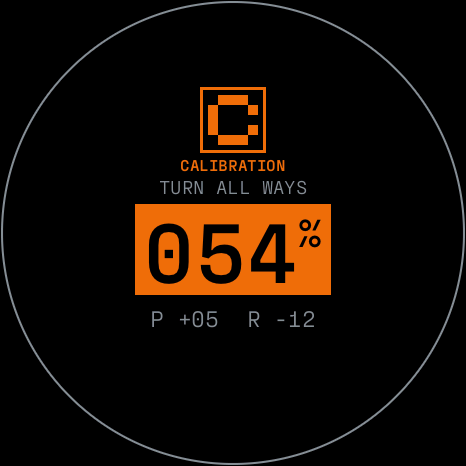
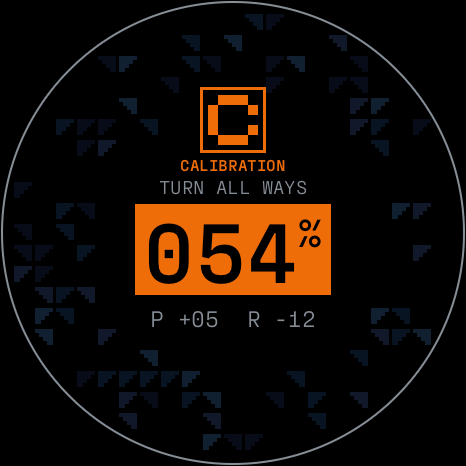
docs: record c1 compass design and draw time

diff --git a/context/SCREEN-DESIGN-BRIEF.md b/context/SCREEN-DESIGN-BRIEF.md
@@ -7,7 +7,7 @@ what data and settings exist. Read it with:
 - [`design/handoffs/IMPLEMENTATION-HANDOFF-CURRENT.md`](design/handoffs/IMPLEMENTATION-HANDOFF-CURRENT.md):
   the design agent's hand-off of 2026-09-26, which redesigns every screen. The owner approved
   all of it ([`design/DECISIONS.md`](design/DECISIONS.md)). The start-up, clock, settings and
-  always-on screens are built; C1 compass remains. The rest of this brief records the build.
+  always-on screens and C1 compass are built. The rest of this brief records the build.
 - [`design/docs/marathon-ui-design-language.md`](design/docs/marathon-ui-design-language.md), the
   design doctrine, and [`design/docs/OCTOWHERE-COLOR-ROLES.md`](design/docs/OCTOWHERE-COLOR-ROLES.md).
   The doctrine was written for an earlier product. Where it disagrees with this brief about this
@@ -105,8 +105,11 @@ the panel. Touch targets are no smaller than about 10 mm.
   face as built" below has where the build interpreted it. A time that a fix or zone change
   replaces types in again by cell reveal: the hours, minutes and seconds over 180 ms, and the
   first token line over 160 ms from 120 ms. A tick never animates the digits.
-- **Compass:** as the clock face spec's compass section and the animation addendum describe, with
-  the 66 px outlined icon. It no longer has cover-to-recalibrate, its `COVER SCREEN TO RECAL`
+- **Compass:** C1 adds a fixed dim blue field after a five-step build within the 440 ms entry.
+  Heading holds low horizontal blocks through turns; calibration and TOP EDGE UP use sparse
+  stepped tiles; interference dims the blocks; NO DATA has none. The dial, five states and
+  state transitions remain as the compass spec and animation addendum describe, with the 66 px
+  outlined icon. It no longer has cover-to-recalibrate, its `COVER SCREEN TO RECAL`
   hint, or the divider above it. The tilt line ends the stack. Calibration restarts from the
   panel's COMPASS cell.
 - **Settings panel:** S1's eight indexed rows on two pages, four rows per page. A horizontal
@@ -497,7 +500,8 @@ target that takes antialiased coverage a row at a time and blends it with what i
 
   A halo costs the ring plus the plain text. Stretched, doubled and rotated text have no outline
   yet.
-- **Solid rectangles:** exact, and the cheapest thing to draw.
+- **Solid rectangles:** exact, and the cheapest thing to draw. C1 builds its fixed blue field
+  from these; it does not store a texture image.
 - **The 5 × 5 icon system:** outlined, at any module size. The frame is a quarter of the module
   (at least 2 px), black inside, and the modules are in the state colour. In use: 96 px (clock
   and second-level screens), 66 px (compass and panel cells). The glyphs are in the specs'
@@ -517,11 +521,10 @@ target that takes antialiased coverage a row at a time and blends it with what i
 Constraints:
 
 - **Draw order is the layering.** A later draw covers an earlier one.
-- **An antialiased edge must know its background to look right.** Every screen draws on a known
-  flat colour: text on `BLACK`, knockout text on its band or slab colour. Anything over an image,
-  a pattern or another shape's edge is possible but slower, and a deliberate choice.
+- **An antialiased edge must know its background to look right.** Text uses `BLACK` or its
+  band or slab colour. The compass dial blends over C1's field instead of assuming black.
 - **Symbols are built in code** from rectangles and polygons on integer geometry, never bitmaps.
-- **No images, photographs or textures.**
+- **No bitmap images or photographs.**
 
 ## What drawing costs
 
@@ -534,19 +537,23 @@ that changed redraw. Measured on the device, per frame:
 | Either face at rest | nothing drawn |
 | Clock, a second ticks | about 1.9 ms |
 | Clock, a token line typing in | about 7 ms, at most 18 ms |
-| Compass, tilt changes by a degree | 1.7 ms |
-| Compass, a step of the dial sweep | 7–12 ms |
-| Compass, heading changes by a degree | about 13 ms |
+| Compass, tilt changes by a degree, before C1 | 1.7 ms |
+| Compass, a step of the dial sweep, before C1 | 7–12 ms |
+| Compass, heading changes by a degree, before C1 | about 13 ms |
 | Clock drawn in full | about 20 ms, at most 25 ms |
-| Compass drawn in full | 13–23 ms |
+| Compass drawn in full, before C1 | 13–23 ms |
+| C1 compass heading, full | 22.857 ms median |
+| C1 compass heading, one-degree redraw | 11.151 ms median |
 | Start-up identity, a frame of its opening grid | about 15 ms, at most 19 ms |
 | Start-up identity, a frame while its title and marks build | about 23 ms, at most 31 ms |
 | Start-up identity, once settled | nothing but the scatter's turns and the digits |
 | Start-up card, a frame | about 12 ms, at most 22 ms |
 | Start-up fault screen, a frame | about 25 ms, at most 28 ms |
 
-Of a full clock draw, the clear is about 7 ms, the scatter 3.3 ms and the band 3.4 ms. The new clock face's minute change, its entry's other steps and the charging crawl were not measured on their own; the board had no battery reading. The screens of the settings round are not
-measured.
+Of a full clock draw, the clear is about 7 ms, the scatter 3.3 ms and the band 3.4 ms. The new clock face's minute change, its entry's other steps and the charging crawl were not measured on their own; the board had no battery reading. Settings draws are recorded in
+[`docs/logs/display/settings-draw-2026-09-26.md`](../docs/logs/display/settings-draw-2026-09-26.md).
+C1's settled states, entry points and a swipe frame were measured in
+[`docs/logs/display/compass-c1-draw-2026-09-26.md`](../docs/logs/display/compass-c1-draw-2026-09-26.md).
 
 - A full redraw happens during a page swipe or sheet travel. A fade of the perimeter ring
   redraws the ring, and recolouring the clock's band redraws the band's rows.
@@ -566,8 +573,8 @@ measured.
 ## Owner decisions that bind later screens
 
 - Colour tokens only. `RED` is only for a fault.
-- `BLUE` marks a live, valid reading on a status icon. `GRAY` as an icon colour marks a value that
-  is valid but unconfirmed.
+- `BLUE` marks a live, valid reading on a status icon. C1's dim field is the approved exception;
+  it carries no status. `GRAY` as an icon colour marks a value that is valid but unconfirmed.
 - Each colour's meaning is in [`design/docs/OCTOWHERE-COLOR-ROLES.md`](design/docs/OCTOWHERE-COLOR-ROLES.md).
 - Every icon is outlined. The bands and slabs carry the colour where a state must be loud.
 - Filled means reading, outlined means editing. A mode in force is filled `GRAY`.

diff --git a/docs/logs/display/compass-c1-draw-2026-09-26.md b/docs/logs/display/compass-c1-draw-2026-09-26.md
@@ -1,0 +1,49 @@
+# C1 compass draw on the target, 2026-09-26
+
+The C1 compass was measured on the ESP32-S3 at 240 MHz. The source is
+`bench/compass-c1` at `99f3624`, based on committed master `b0e1bef`. Commit
+`dd701be` carries the C1 source snapshot; `fbbf6fd` adds the feature-gated
+measurement, and `99f3624` primes both framebuffers before the partial-draw
+case. The raw defmt capture is
+[compass-c1-draw-2026-09-26.log](compass-c1-draw-2026-09-26.log).
+
+Each case draws the same state 120 times into alternating PSRAM framebuffers.
+Core 1 flushes each resulting frame to the panel. Full cases redraw and flush
+the entire frame. Before the one-degree case, both framebuffers are drawn with
+the old heading. That case uses the real damage from a 47° to 48° stage update,
+20,624 pixels. Brightness is set to 180/255. The timer surrounds
+`Stage::draw` only. It excludes `Stage::step`, touch, swap wait, TE wait and SPI
+transfer. The readings and gestures are synthetic fixtures. The benchmark
+diverts normal bring-up after starting the display core.
+
+| State | Median draw (ms) | 95th percentile (ms) |
+| --- | ---: | ---: |
+| Heading, settled | 22.857 | 24.344 |
+| Interference, settled | 25.444 | 26.278 |
+| Calibrating, settled | 19.902 | 22.199 |
+| Top edge up, settled | 20.267 | 21.619 |
+| NO DATA, settled | 17.137 | 17.663 |
+| Entry blocks, 40 ms | 18.316 | 18.878 |
+| Entry dark, 100 ms | 17.785 | 18.224 |
+| Entry tiles, 150 ms | 20.493 | 21.768 |
+| Entry pixels, 275 ms | 20.827 | 22.153 |
+| Entry settled field, 400 ms | 22.974 | 24.411 |
+| Swipe in progress | 20.407 | 21.521 |
+| One-degree heading redraw | 11.151 | 11.206 |
+
+All full-draw medians exceed the 16.667 ms frame period. The one-degree redraw
+fits. This is a recorded overshoot, not a reason to defer other work. Repeating
+one stage state does not measure the actual entry sequence or its end-to-end
+frame pacing. Physical-panel legibility and touch were not checked in this run.
+
+Build from a worktree at `bench/compass-c1` with `cargo build --release
+--offline --features compass-c1-bench`. Flash its ELF with `espflash flash
+--partition-table partitions.csv --port
+/dev/serial/by-id/usb-Espressif_USB_JTAG_serial_debug_unit_44:1B:F6:86:1A:38-if00
+target/xtensa-esp32s3-none-elf/release/octowhere`. Capture defmt through the
+same port until `[COMPASS C1 BENCH] done`, then reflash the ordinary release
+image. The benchmark image was 1,169,792 bytes; the normal image was 1,168,448
+bytes. Neither flash command requested a settings-partition erase. The normal
+image booted before and after the benchmark, with POWER, CLOCK, TOUCH, MOTION,
+MAGNET and GNSS all answering. The restored boot capture is
+[compass-c1-restored-boot-2026-09-26.log](compass-c1-restored-boot-2026-09-26.log).

diff --git a/context/BACKLOG.md b/context/BACKLOG.md
@@ -10,17 +10,14 @@ until the feature set is complete, because profiling an incomplete firmware pric
   (`tools/design-compare.py`), reviewed by the owner in `ui-sim`, and measured on the board
   before it is committed. Built: the shared pieces (`VIOLET`, `DEEP_BLUE`, several scatter
   fields on one grid), the start-up (S1 self-test, G19 identity, G17 card), the K1 clock,
-  the H2b always-on face, and S1 settings with D3 inner screens. The new settings screens
+  the H2b always-on face, S1 settings with D3 inner screens, and C1 compass. The new settings screens
   pass host tests and the firmware build. Their on-target draw times are recorded in
   `docs/logs/display/settings-draw-2026-09-26.md`; they still need owner review in `ui-sim`
-  and a legibility and touch check on the board. Left, in this order:
-  1. C1 compass (`ui/compass_screen.rs`). A dim blue block field built inside the functional
-     440 ms entry, then still at rest and through heading updates; it stays blue (decision 3).
-     Calibrating's quieter texture, interference dimmed, NO DATA black and red with no
-     texture. Also C1's top-edge-up and swipe views (decision 1). Renders:
-     `compass-c1-out/`, `family-pass-v1-out/compass-C1-{top-edge-up,swiping}.png`. The
-     `compass-C1-noise.gif` cadence is exploratory, not the entry (hand-off §3.5).
-  2. A slow, thorough `ui-sim` tour that replaces the `tour` scene in
+  and a legibility and touch check on the board. C1 passes host tests and a firmware build.
+  The owner approved its `ui-sim` preview, and its on-target draw times are in
+  `docs/logs/display/compass-c1-draw-2026-09-26.md`. C1 still needs a physical-panel
+  legibility and touch check. Left:
+  1. A slow, thorough `ui-sim` tour that replaces the `tour` scene in
      `tools/ui-sim/src/scenes.rs` (owner, 2026-09-26). Paced for a viewer who does not know
      the device: slower swipes and drags, and holds long enough to read each state. In order:
      the start-up (self-test, identity, card) into the clock; the clock in GNSS, RTC, manual,

diff --git a/AGENTS.md b/AGENTS.md
@@ -196,7 +196,9 @@ of the text (`compass-draw-bench`); and `bench/compass-draw-rows`, the same benc
 rewritten draw path, with pixel checks of the precomputed ring and the turned ticks, the clear
 variants and the text split (`compass-draw-bench`); and `bench/compass-states`, the implemented
 compass design's full draw in each state, entering, and early and halfway through a swipe
-(`compass-state-bench`); and `bench/font-scale`, the same draw with a warm and a cold glyph
+(`compass-state-bench`); and `bench/compass-c1`, which measures C1's full states and entry
+steps, a swipe and one-degree redraw with core 1 flushing (`compass-c1-bench`); and
+`bench/font-scale`, the same draw with a warm and a cold glyph
 cache, and `tools/font-scale-sweep.sh`, which reruns it at each fontdue `scale`;
 `bench/glyph-cache`, which counted the removed glyph cache's contents on the host
 (`examples/glyph_cache.rs`) and the heap on the board (`glyph-cache-bench`); and
